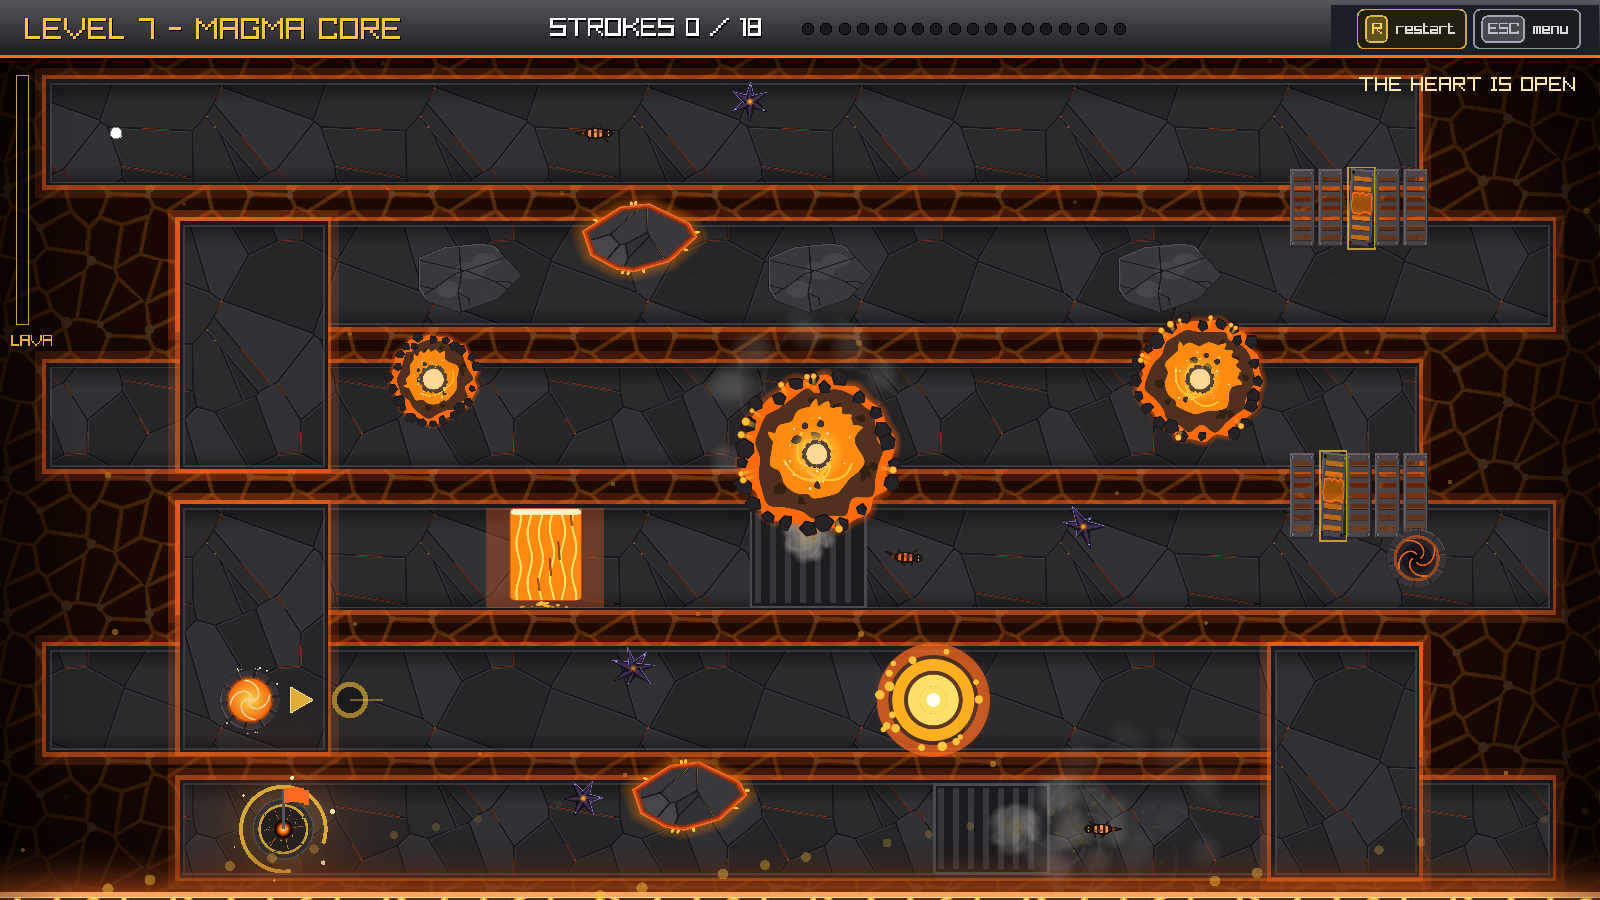
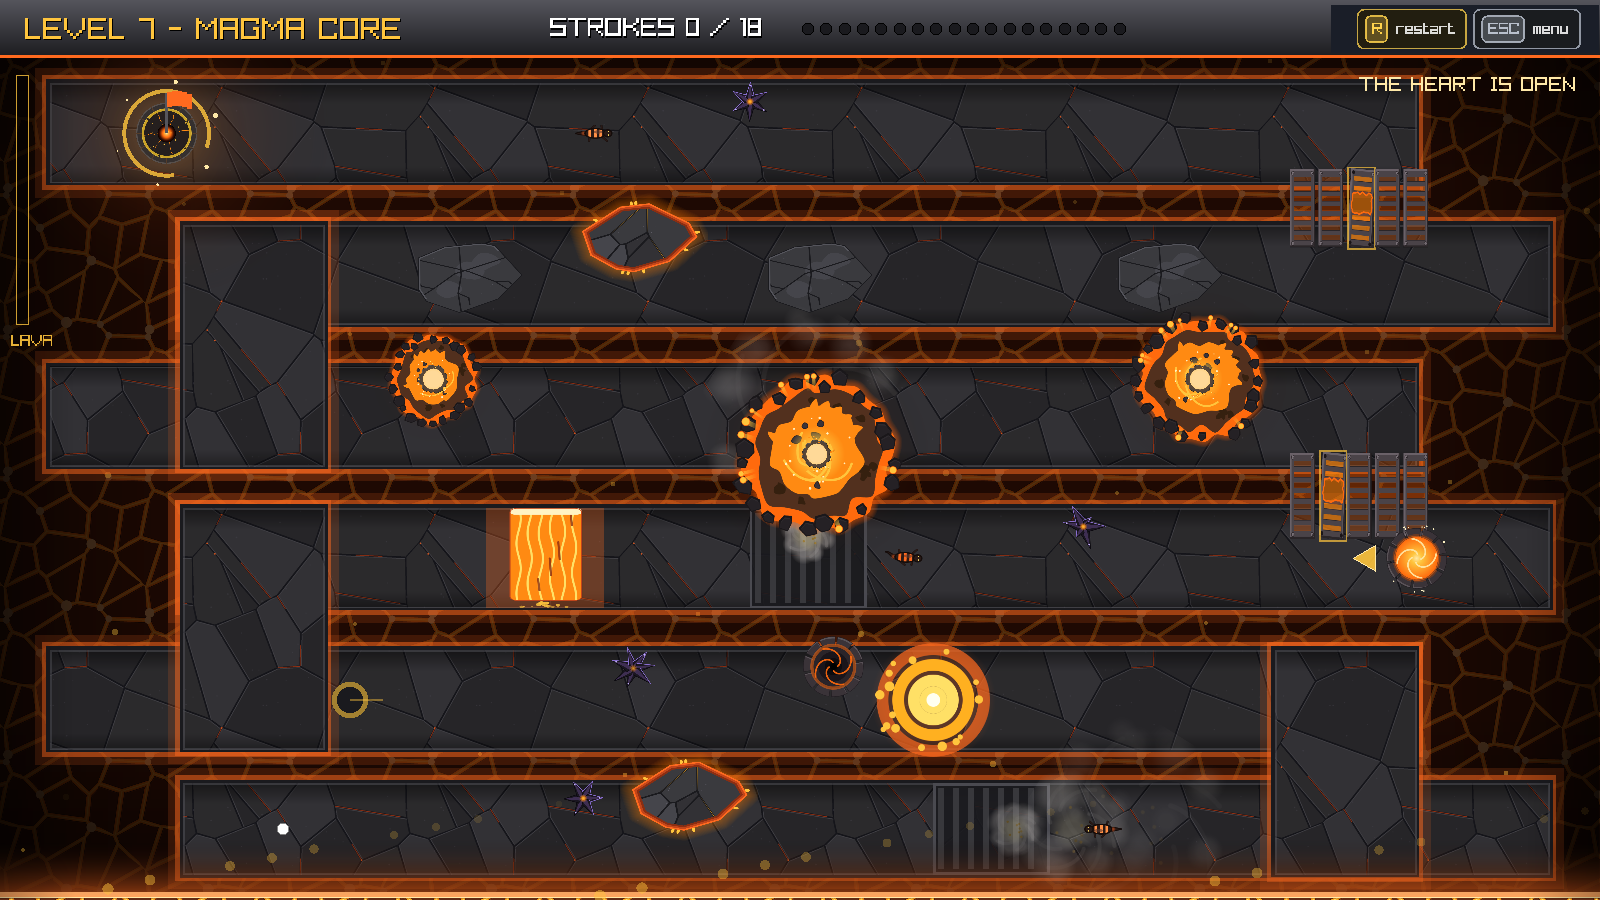
Turn Magma Core the right way up: the lava rises, so climb away from it
The level was unwinnable. The lava rises from the bottom of the screen and
the heart was on the bottom terrace, so after about three minutes the goal
was permanently under lava and the HUD just said THE HEART IS FLOODED with
nowhere left to putt. The clamp that was meant to stop the lava "below the
heart" was set for the old three-terrace layout and sat two terraces above
the heart's floor.

- Start is now the bottom terrace and the heart is the top one, so the floor
  you came in on is the first thing the lava takes. That is what the rising
  lava was always for.
- The lava stops two terraces below the heart, so the last part of the climb
  can never drown.
- The lava tube carries you UP a terrace now, and sits off the lane's centre
  line so it is a shortcut you can take rather than a hole you fall in on the
  way past. It used to sit inside the mouth of the left-hand ramp, which made
  that ramp pointless.
- The risen lava is tiled and washed like the lake in the background instead
  of as a flat bright honeycomb over the whole screen.
- The briefing says what it does now: start low, finish high.

tools/segment_test.c walks the reversed route; every stretch is reachable.

diff --git a/src/levels/level7_magma_core.c b/src/levels/level7_magma_core.c
@@ -226,9 +226,9 @@ void l7_reset_level()
 
     //the lava tube: it takes you from the end of terrace 4 down onto terrace 5, which
     //is the one shortcut on the way down
-    l7_tube_in = l7_make_point(1700,670);
-    l7_tube_out = l7_make_point(300,840);
-    l7_tube_facing = 0;
+    l7_tube_in = l7_make_point(1000,800);
+    l7_tube_out = l7_make_point(1700,670);
+    l7_tube_facing = 180;
     l7_tube_cooldown = 0;
 
     //steam across terrace 4 and the heart chamber
@@ -277,12 +277,12 @@ void l7_reset_level()
     l7_lavafall_clock = 0;
 
     //ball and heart, a whole descent apart
-    l7_start_position = l7_make_point(140,160);
+    l7_start_position = l7_make_point(340,995);
     l7_ball = l7_start_position;
     l7_last_shot_position = l7_start_position;
     l7_speed.x = 0;
     l7_speed.y = 0;
-    l7_pot = l7_make_point(340,995);
+    l7_pot = l7_make_point(200,160);
     l7_stroke = 0;
     l7_game_state = 0;
     l7_aiming = 0;
@@ -376,7 +376,7 @@ void l7_update_obstacles(float dt)
 
     //the lava climbs, and never goes back down
     l7_lava_line = l7_lava_line - l7_lava_rise*dt;
-    if (l7_lava_line < 800*l7_u) l7_lava_line = 800*l7_u;   //it stops below the heart: the level has to stay winnable
+    if (l7_lava_line < 400*l7_u) l7_lava_line = 400*l7_u;   //it stops two terraces below the heart: the level has to stay winnable
 
     //the lava fall pours, then stops, then pours again
     l7_lavafall_clock = l7_lavafall_clock + dt;
@@ -1054,17 +1054,22 @@ void l7_draw_rising_lava()
     int frame = (int)(l7_animation_time*2)%2;
     Rectangle source = {frame*512,0,512,512};
     Vector2 no_origin = {0,0};
-    int columns = l7_width/(256*l7_u) + 1;
+    //tiled at the same size as the lake in the background, so the risen lava reads as the
+    //same stuff and not as a pattern laid over the level
+    int columns = l7_width/(170*l7_u) + 1;
     float band = l7_height - l7_lava_line;
-    int rows = band/(256*l7_u) + 1;
+    int rows = band/(170*l7_u) + 1;
     for (int x=0; x<columns; x++)
     {
         for (int y=0; y<rows; y++)
         {
-            Rectangle dest = {x*256*l7_u,l7_lava_line + y*256*l7_u,256*l7_u,256*l7_u};
+            Rectangle dest = {x*170*l7_u,l7_lava_line + y*170*l7_u,170*l7_u,170*l7_u};
             DrawTexturePro(l7_lava_texture,source,dest,no_origin,0,WHITE);
         }
     }
+    //a wash over it, and it gets darker the deeper down you look
+    DrawRectangle(0,l7_lava_line,l7_width,band,Fade(GetColor(0x6A2A10FF),0.34));
+    DrawRectangleGradientV(0,l7_lava_line+40*l7_u,l7_width,band,BLANK,Fade(BLACK,0.45));
     //the edge of it, with a bright lip and a haze above
     DrawRectangle(0,l7_lava_line-6*l7_u,l7_width,8*l7_u,l7_lava_hot);
     DrawRectangleGradientV(0,l7_lava_line-70*l7_u,l7_width,70*l7_u,BLANK,Fade(l7_lava,0.55));
@@ -1169,7 +1174,7 @@ void l7_background_step(float dt)
 {
     l7_update_obstacles(dt);
     //the menu must not flood itself over a few minutes, so the lava is held down there
-    if (l7_lava_line < 900*l7_u) l7_lava_line = 1080*l7_u;
+    if (l7_lava_line < 500*l7_u) l7_lava_line = 1080*l7_u;
 }
 
 

diff --git a/tools/segment_test.c b/tools/segment_test.c
@@ -19,12 +19,12 @@ float way5[][2] = {{140,985},{420,985},{760,985},{1100,985},{1430,985},{1620,900
 float way6[][2] = {{150,940},{400,960},{670,930},{900,930},{1150,900},{1265,650},{1400,650},
                    {1600,620},{1620,556},{1620,460},{1500,460},{1265,470},{1100,470},
                    {900,300},{675,200},{560,180},{560,350},{560,460},{415,370},{300,430},{200,470}};
-float way7[][2] = {{140,160},{480,160},{860,160},{1240,160},{1600,160},{1600,250},{1600,330},
-                   {1240,330},{860,330},{480,330},{300,330},{300,440},{300,500},
-                   {640,500},{1000,500},{1360,500},{1620,500},{1620,600},{1620,670},
-                   {1260,670},{900,670},{540,670},{300,670},{300,780},{300,840},
-                   {640,840},{1000,840},{1360,840},{1610,840},{1610,950},{1610,995},
-                   {1260,995},{900,995},{600,995},{340,995}};
+float way7[][2] = {{340,995},{700,995},{1060,995},{1400,995},{1610,995},{1610,900},{1610,860},
+                   {1260,860},{900,860},{540,860},{300,860},{300,730},{300,670},
+                   {640,670},{1000,670},{1360,670},{1620,670},{1620,580},{1620,500},
+                   {1260,500},{900,500},{540,500},{300,500},{300,400},{300,330},
+                   {640,330},{1000,330},{1360,330},{1600,330},{1600,250},{1600,160},
+                   {1240,160},{860,160},{480,160},{200,160}};
 int way_count[3] = {35,21,35};
 
 Vector2 way(int n, int i)

diff --git a/src/the_ultimate_golf.c b/src/the_ultimate_golf.c
@@ -1614,7 +1614,7 @@ const char *brief_text[LEVELS][13] = {
      "Crosses the room on a loop\nand knocks the ball off line.",
      "Both plates down opens the crypt.\nFall anywhere and they pop back up."},
     {"Everything that is not rock is lava.\nTouch it and you start the shot again.",
-     "It climbs the whole level and never\ngoes back. The floor runs out.",
+     "It climbs from the bottom and never\ngoes back. You start low. Finish high.",
      "Grey is safe, glowing is not.\nFour seconds on, two seconds deadly.",
      "Cracks fast over the lake, and what is\nunderneath is not water.",
      "The hole is always deadly. Now and then\nit floods a circle around itself, then drains.",
